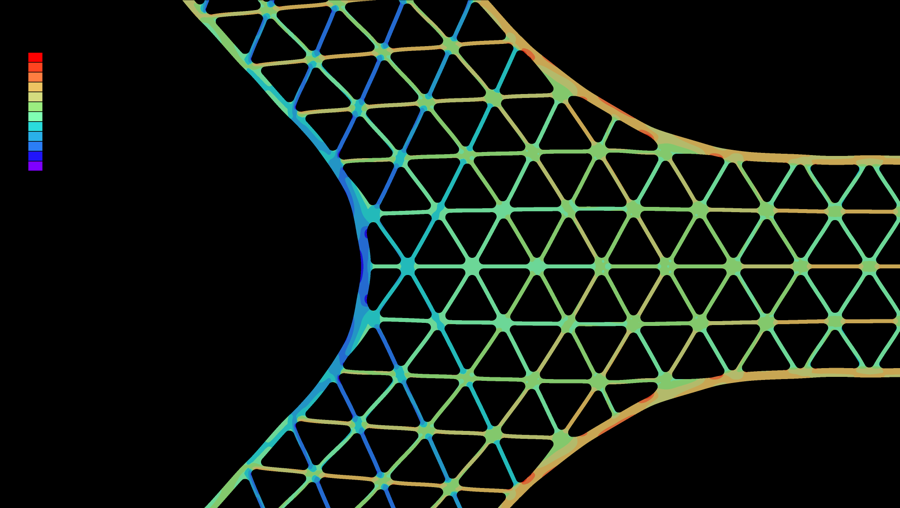
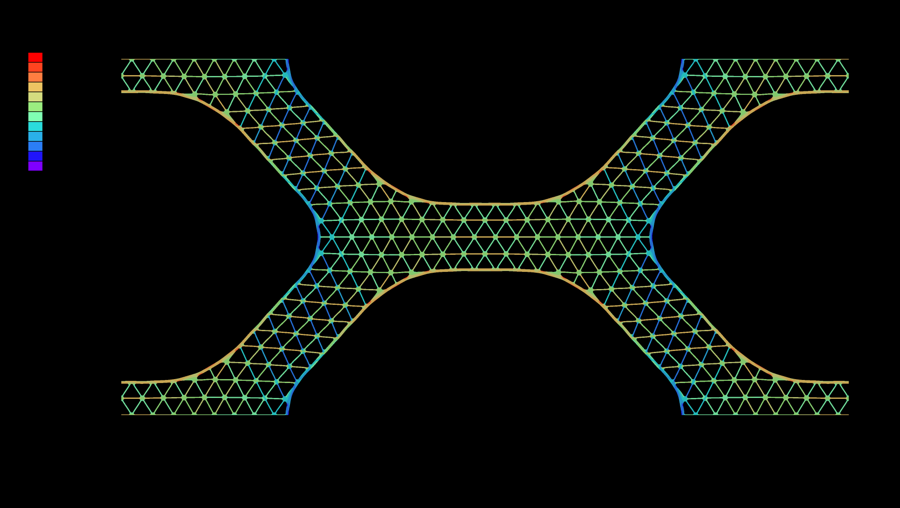
aaa

Changed region(s): [[0.1244, 0.0, 1.0, 1.0], [0.2178, 0.9744, 0.2489, 1.0]]

diff --git a/_includes/archive-single.html b/_includes/archive-single.html
@@ -28,13 +28,22 @@
 
     {% if include.type != "grid" and post.collection == 'publications' and post.header.teaser %}
       <div class="archive__item-teaser publication__teaser">
-        <img src=
-          {% if teaser contains "://" %}
-            "{{ teaser }}"
-          {% else %}
-            "{{ teaser | prepend: "/images/" | prepend: base_path }}"
-          {% endif %}
-          alt="">
+        {% if teaser contains ".pdf" %}
+          <object
+            data="{% if teaser contains "://" %}{{ teaser }}{% else %}{{ teaser | prepend: "/images/" | prepend: base_path }}{% endif %}#toolbar=0&navpanes=0&scrollbar=0"
+            type="application/pdf"
+            aria-label="{{ title }} graphical abstract">
+            <a href="{% if teaser contains "://" %}{{ teaser }}{% else %}{{ teaser | prepend: "/images/" | prepend: base_path }}{% endif %}">View graphical abstract</a>
+          </object>
+        {% else %}
+          <img src=
+            {% if teaser contains "://" %}
+              "{{ teaser }}"
+            {% else %}
+              "{{ teaser | prepend: "/images/" | prepend: base_path }}"
+            {% endif %}
+            alt="">
+        {% endif %}
       </div>
     {% endif %}
 

diff --git a/_pages/publications.html b/_pages/publications.html
@@ -26,6 +26,13 @@ author_profile: true
     height: auto;
   }
 
+  .publication__teaser object {
+    display: block;
+    width: 100%;
+    aspect-ratio: 16 / 9;
+    border: 0;
+  }
+
   .archive__item::after {
     content: "";
     display: table;

diff --git a/_publications/2026-01-03-hierarchical-honeycombs-improved-mechanical-properties.md b/_publications/2026-01-03-hierarchical-honeycombs-improved-mechanical-properties.md
@@ -9,7 +9,7 @@ venue: "Ongoing"
 link: "https://scholar.google.com/citations?user=_UmzBzAAAAAJ&hl=en"
 citation: "Emami, F. & Gross. (2026). &quot;Hierarchical Honeycombs with Improved Mechanical Properties.&quot; Ongoing."
 header:
-  teaser: publications/single-honeycomb.png
+  teaser: publications/single-honeycomb.pdf
 ---
 
 Ongoing research on hierarchical honeycombs with improved mechanical properties.